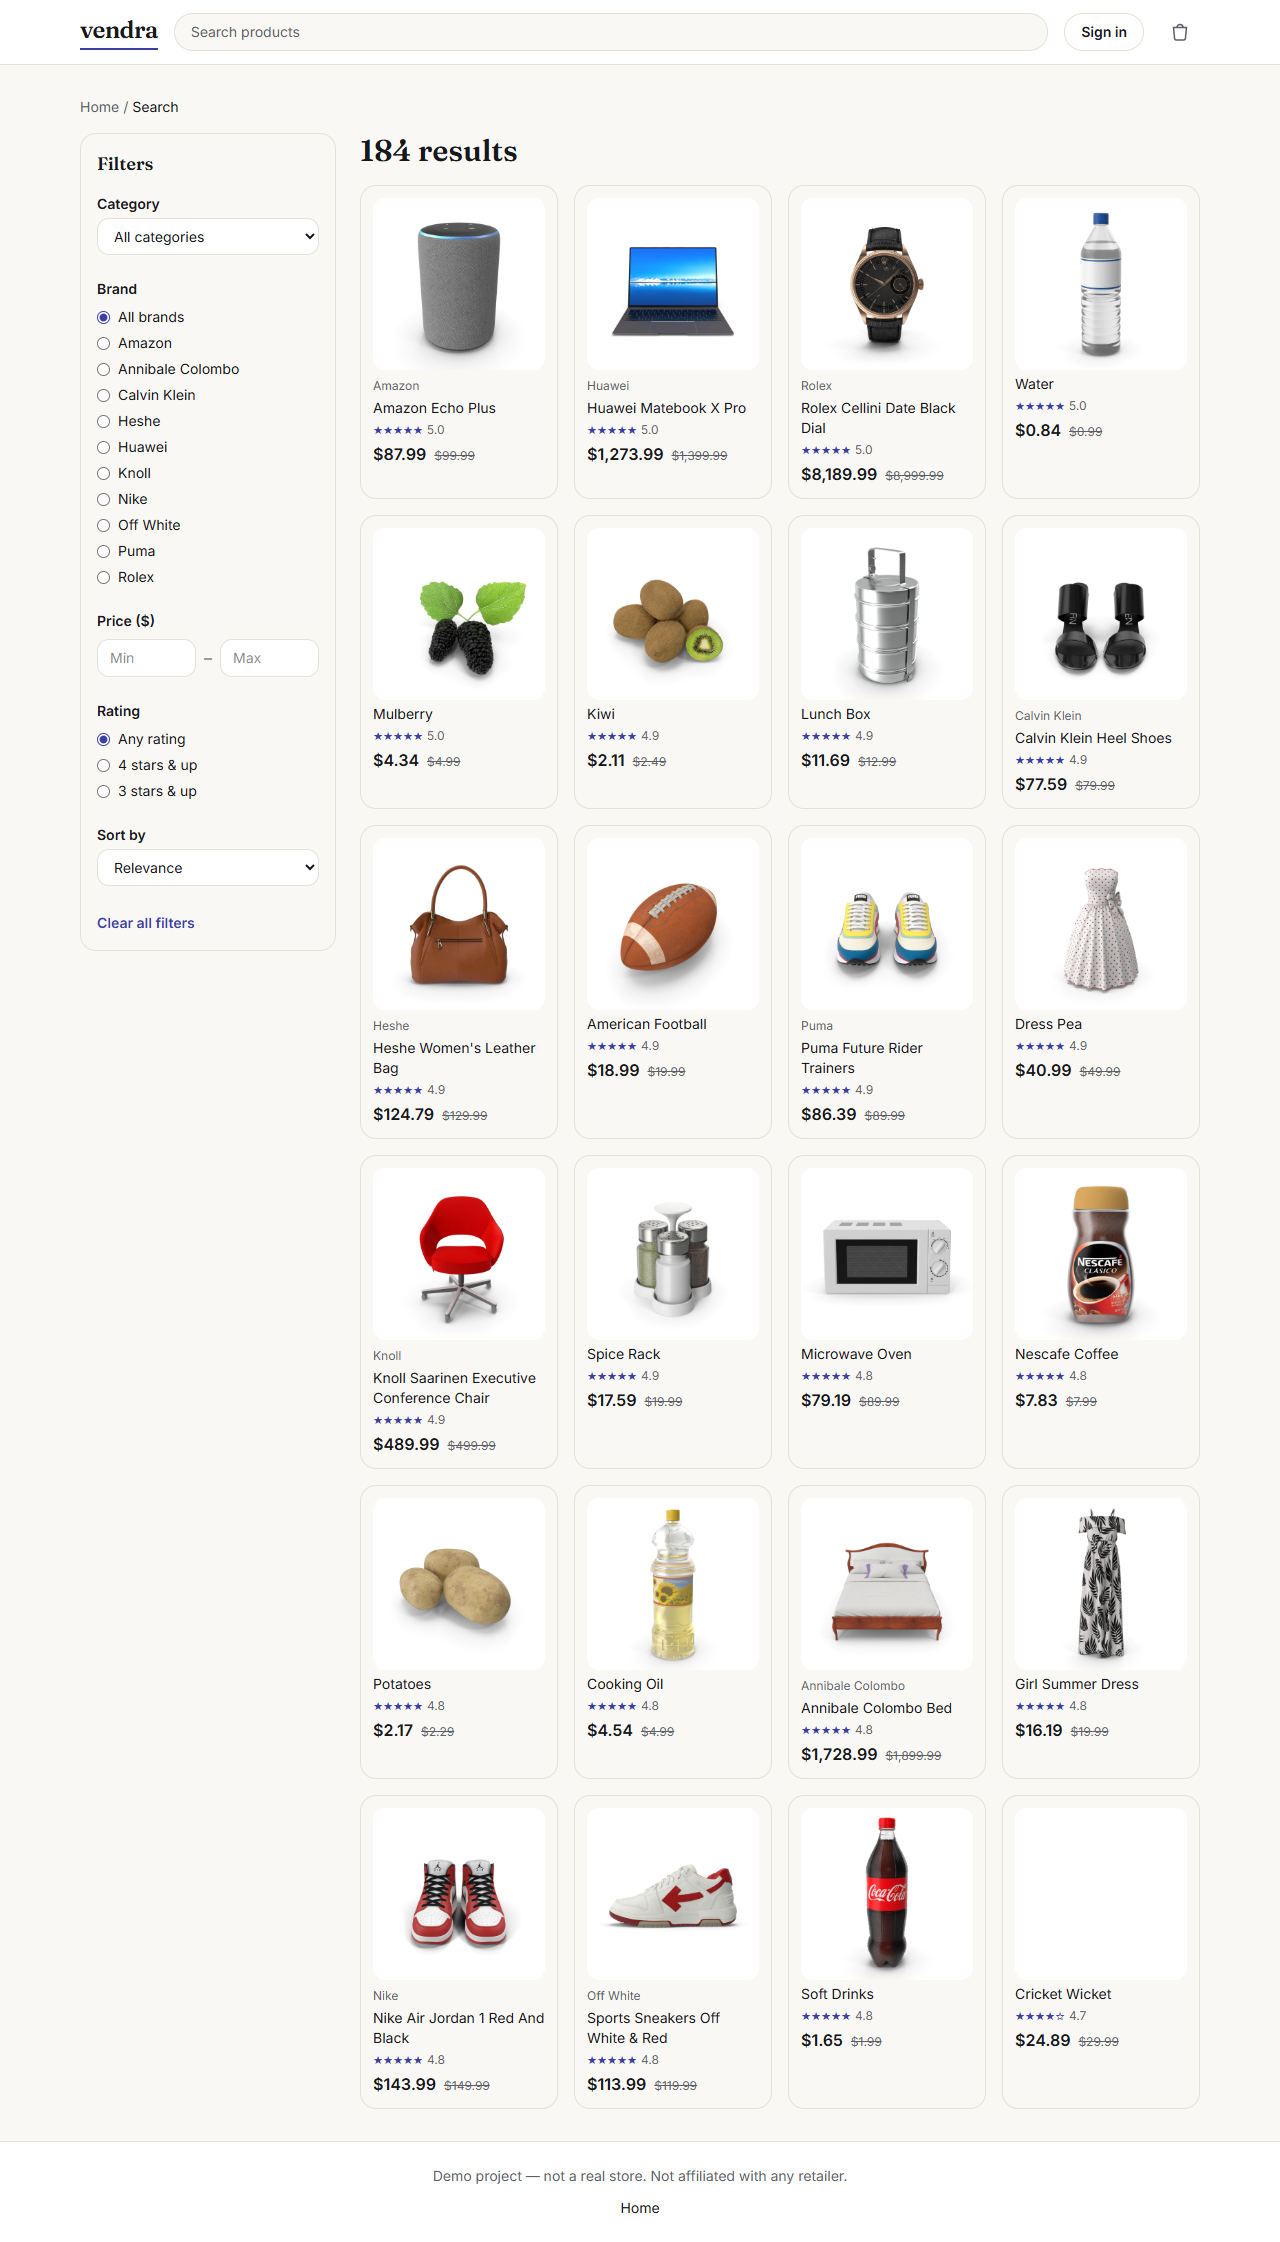
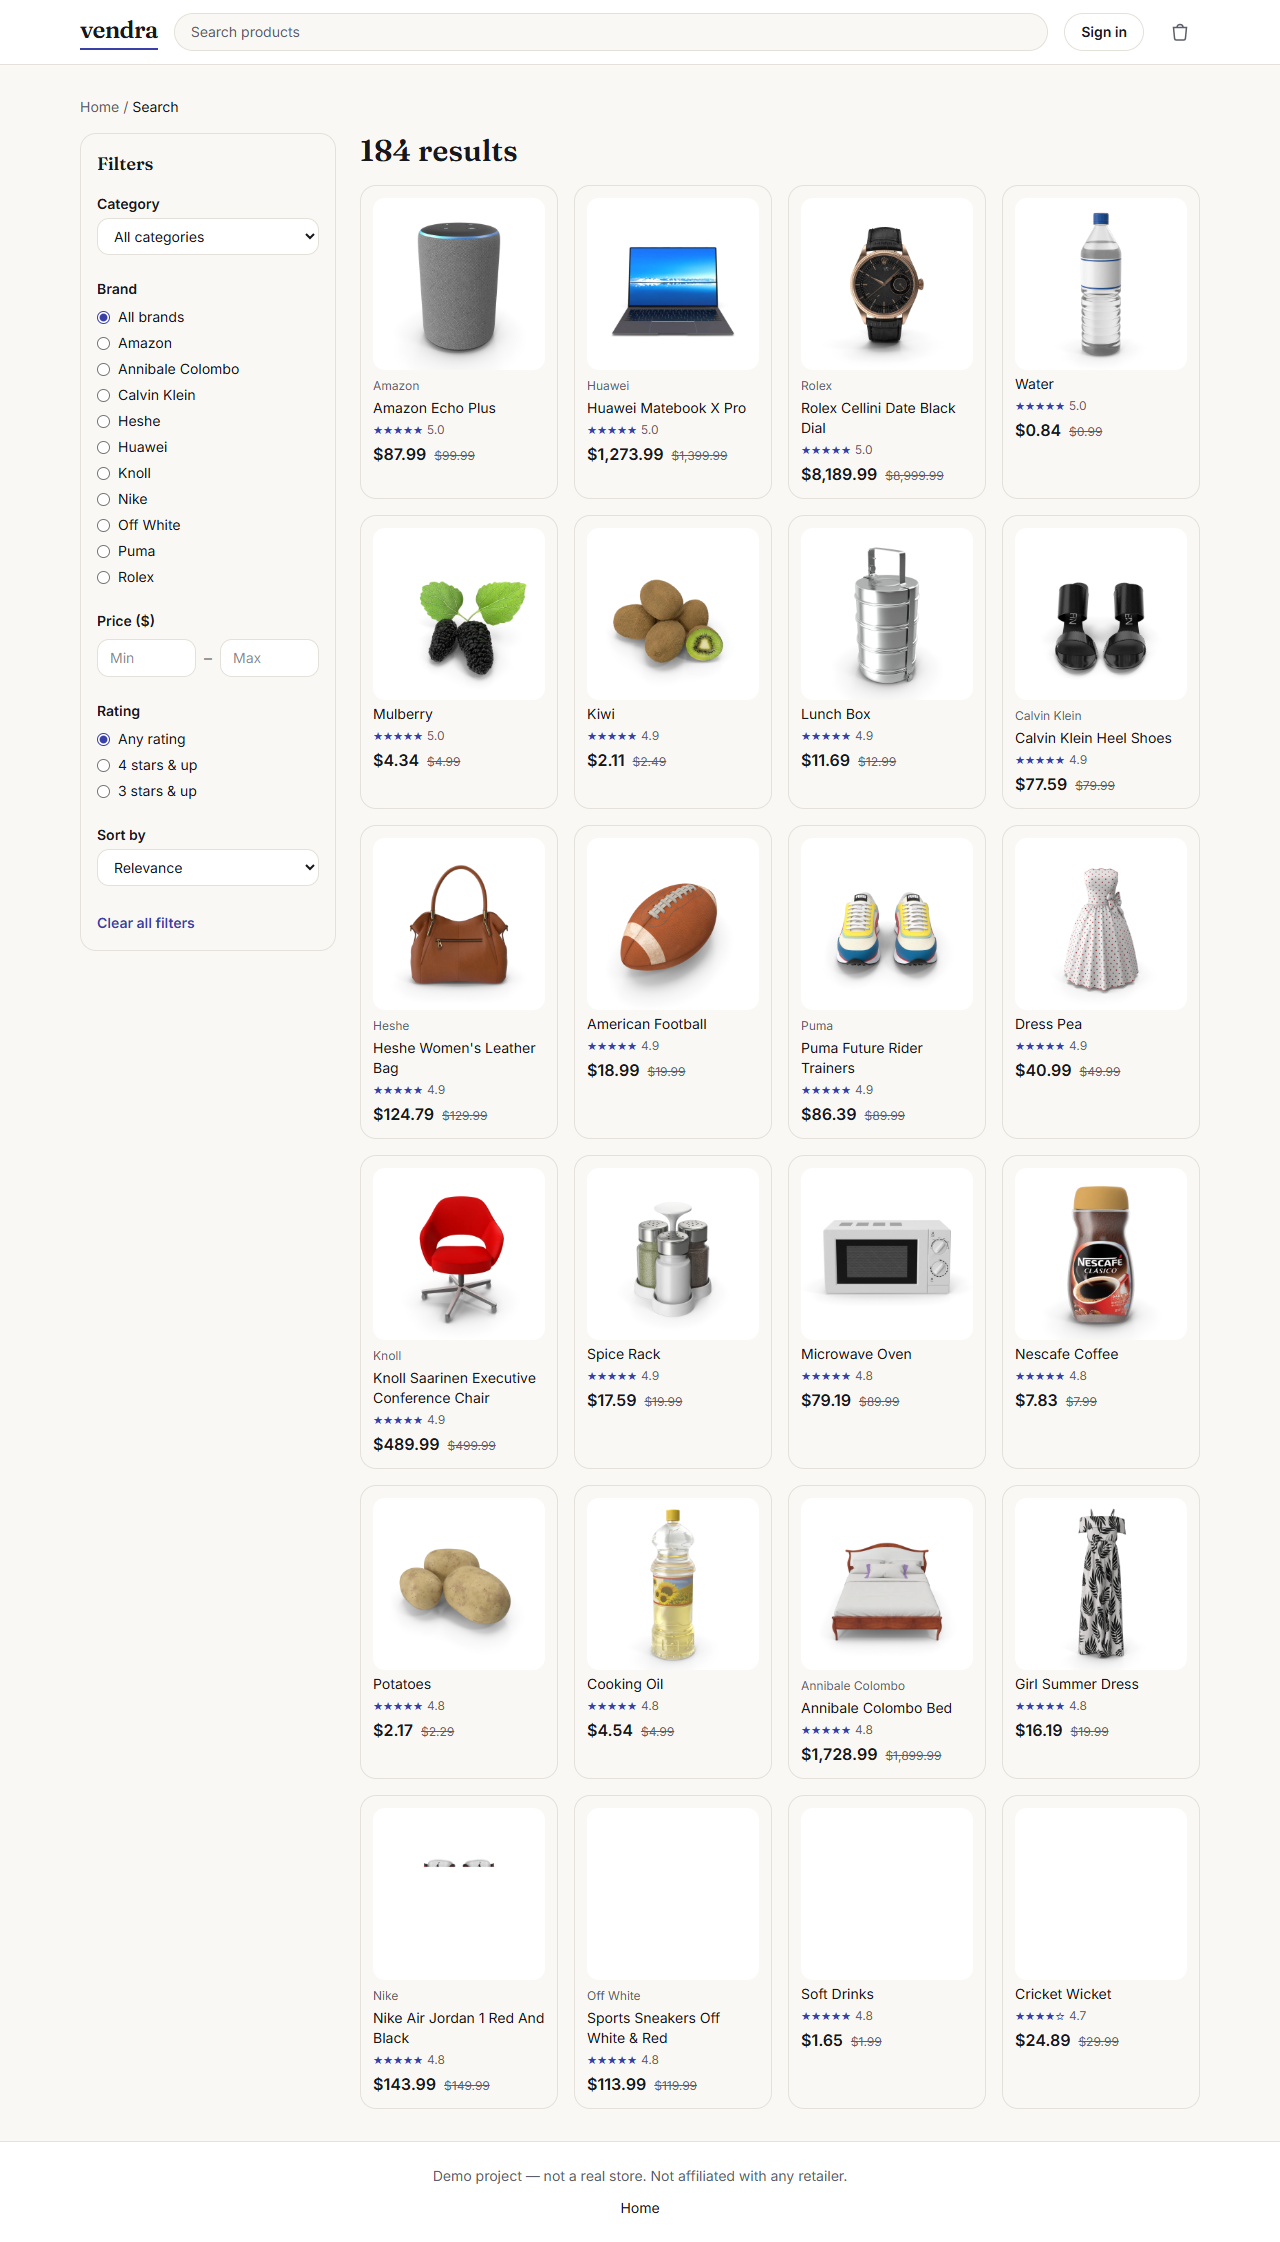
docs: slice 4 DONE evidence + progress

Changed region(s): [[0.4688, 0.8118, 0.5938, 0.8742], [0.3125, 0.8118, 0.4062, 0.8742], [0.6562, 0.8118, 0.7188, 0.9054]]

diff --git a/docs/progress.md b/docs/progress.md
@@ -11,7 +11,7 @@ Status values: `NOT STARTED` · `IN PROGRESS` · `BLOCKED` · `DONE (verified: <
 | 1 | Seeded catalogue | **DONE (verified:** `npm run seed` ×2 + `npm run verify-seed` → counts `nav_groups=7 categories=22 products=184 images=424` (ADR-021 follow-up: −vehicle −motorcycle; run1 `deleted products=10 categories=2 nav_groups=2`, run2 `deleted 0/0/0`), min/max ids identical across runs (`00709f6d-…`/`ff77cd24-…`), `seed_rating_gt0=184 with_images=184`, `price_fn 500`; owner applied migrations 0001–0004 in SQL Editor, each verified (`anon write DENIED 42501`); `verify-public-read` → 3 titles anon; app+components SERVICE_ROLE **NO MATCHES**; footer links Home-only; seed JSON scan 0 emails / 0 reviewer keys; typecheck exit=0, `npm test` 1/1**)** | 2026-10-03 | 2026-10-03 |
 | 2 | Browse + PDP | **DONE (verified:** `npm run typecheck` exit=0, `npm test` 7/7, `npm run build` exit=0 (routes `/`, `/c/[group]`, `/p/[slug]`); Playwright click-path home→category→PDP **29/29 checks** desktop + 390px — qty+ recomputes total server-side ($95.03→$190.06), `?page=999` → HTTP 200 empty state, `/c/nope`+`/p/nope` → branded not-found, brand-null PDP omits brand line, CDN-blocked → indigo fallback tile `rgb(59, 63, 168)`, noindex inherited; evidence `docs/evidence/02-*.png` (8 files)**)** | 2026-10-03 | 2026-10-03 |
 | 3 | Search, filters, sort | **DONE (verified:** `npm run typecheck` exit=0, `npm test` 30/30 (23 in `tests/search.test.ts`), `npm run build` exit=0 (`ƒ /search`, `ƒ /api/suggest`, no `/api/search`), `npm run e2e` → Playwright matrix **28/28 checks** at 1280+390 — rail apply → URL updates → Back restores URL+control, sheet writes byte-identical URL to rail, price Enter/blur applies `min=10`, 5-char typing burst → **1** suggest request (no per-keystroke), invalid params → HTTP 200 defaults, `q=men's` → 200 with quote, chip × removes only its param, Clear all → `/search`, 31 footer/nav/product links → 200; no `lint` script (npm error, documented); evidence `docs/evidence/03-*.png` (7 files)**)** | 2026-10-03 | 2026-10-03 |
-| 4 | Auth + RLS | **IN PROGRESS — 44/45 e2e; open: D8** (verified: `npm run typecheck` exit=0, `npm test` 40/40 (safeNext 4 + RLS 6 live), `npm run build` exit=0 (`ƒ /signin`, `ƒ /signup`); `verify-profiles.ts` → trigger+RLS 9/9 real output; `npm run e2e` → **44/45** — guards 307 with `next=%2F…`, sign-in returns to `/orders`, `next=//evil.com` → `/`, header shows name/prefix, profiles row auto-created, sign-out → guard 307 again, `SERVICE_ROLE` absent from `.next/static`; **FAIL D8** (twice, stopped per rule): after UI sign-out URL is `/` and server session is cleared (D9 307) but header still doesn't show "Sign in"**)** | 2026-10-03 | 2026-10-03 |
+| 4 | Auth + RLS | **DONE (verified:** `npm run typecheck` exit=0, `npm test` 40/40 (safeNext 4 + RLS 6 live), clean `npm run build` (`.next` deleted first, exit=0, all routes `ƒ` dynamic); `verify-profiles.ts` → trigger+RLS 9/9; `npm run e2e` → **47/47 checks** — guards 307 with `next=%2F…`, D2 hidden next preserved, D3 sign-in → `/orders`, **D3b header shows user right after sign-in**, `next=//evil.com` → `/`, D6 prefix, D7 signed-in `/orders` not redirected, **D8 header back to "Sign in" after UI sign-out** (client `router.refresh()` + `router.replace("/")`), D9 guard 307 again, D10 signup name in header, **D10b header shows user right after sign-up**, D11 profiles row, D12 390px, E1 no `SERVICE_ROLE` in bundle**)** | 2026-10-03 | 2026-10-03 |
 | 5 | Cart | NOT STARTED | — | — |
 | 6 | Checkout (mock payment) | NOT STARTED | — | — |
 | 7 | Orders + cancel | NOT STARTED | — | — |
@@ -39,7 +39,7 @@ Slice 2 notes (2026-10-03): furniture merged → **6 nav groups** (ADR-021 follo
 
 Slice 3 notes (2026-10-03): filters are URL-driven through one `buildSearchUrl` helper — desktop rail and mobile sheet share the same `FilterControls`, so both write byte-identical URLs (brand = single-select, price committed on Enter/blur, any filter change resets `page`); chips "Clear all" resets everything incl. `q` while the Task 2 empty-state link keeps `q`. Browser checks now live in **`npm run e2e`** (`e2e/matrix.py`, 28 checks) for future slices to append to. Incident: a stale `next start` orphan from `with_server.py` kept serving a deleted `.next` (HTML → CSS hash that returned 500 → unstyled page + dead handlers) — killed all `next` processes, clean-rebuilt, re-verified assets 200 before the final matrix run; rules: kill node/next before every build, never build while a server runs, one server at a time. **Next action:** owner inspects the search/filter/sheet flow (screenshots `docs/evidence/03-*.png`), then start Slice 4.
 
-Slice 4 notes (2026-10-03): `profiles` + trigger + own-row RLS applied (0005); email provider had to be enabled in the dashboard mid-slice ("Email logins are disabled"); supabase-js resolves to different builds under node/tsx vs vitest (`{user}` vs `{data:{user}}`) — tests handle both shapes; `server-only` package added; Account menu Orders/Account render as disabled non-links (no dead links until Slices 7+); sign-out does `revalidatePath("/", "layout")` — did not fix D8. e2e now covers auth (Phase D) + bundle scan (Phase E). **Next action:** owner reviews D8 facts (sign-out header) and decides fix-vs-accept, then close Slice 4.
+Slice 4 notes (2026-10-03): `profiles` + trigger + own-row RLS applied (0005); email confirmation OFF (ADR-007); `server-only` package added; Orders/Account are disabled non-links until Slices 7+. **D8 fix (confirmed real bug):** stale header was the client router cache — `revalidatePath` alone can't clear it; sign-out button now calls the action, then `router.refresh()` + `router.replace("/")` (option 1, verified working; hard-nav fallback not needed). Header session read moved out of the root layout into a request-time `UserSlot` behind `<Suspense>` per Next.js auth-with-cacheComponents docs — server side always dynamic, never prerendered. Sign-in/sign-up freshness covered by new auto-waiting e2e checks D3b/D10b (5 s `expect(...).to_be_visible`). e2e now 47 checks. **Next action:** owner reviews auth/sign-out UX (screenshots `docs/evidence/04-*.png`), then start Slice 5 (Cart).
 
 ## Open items
 
